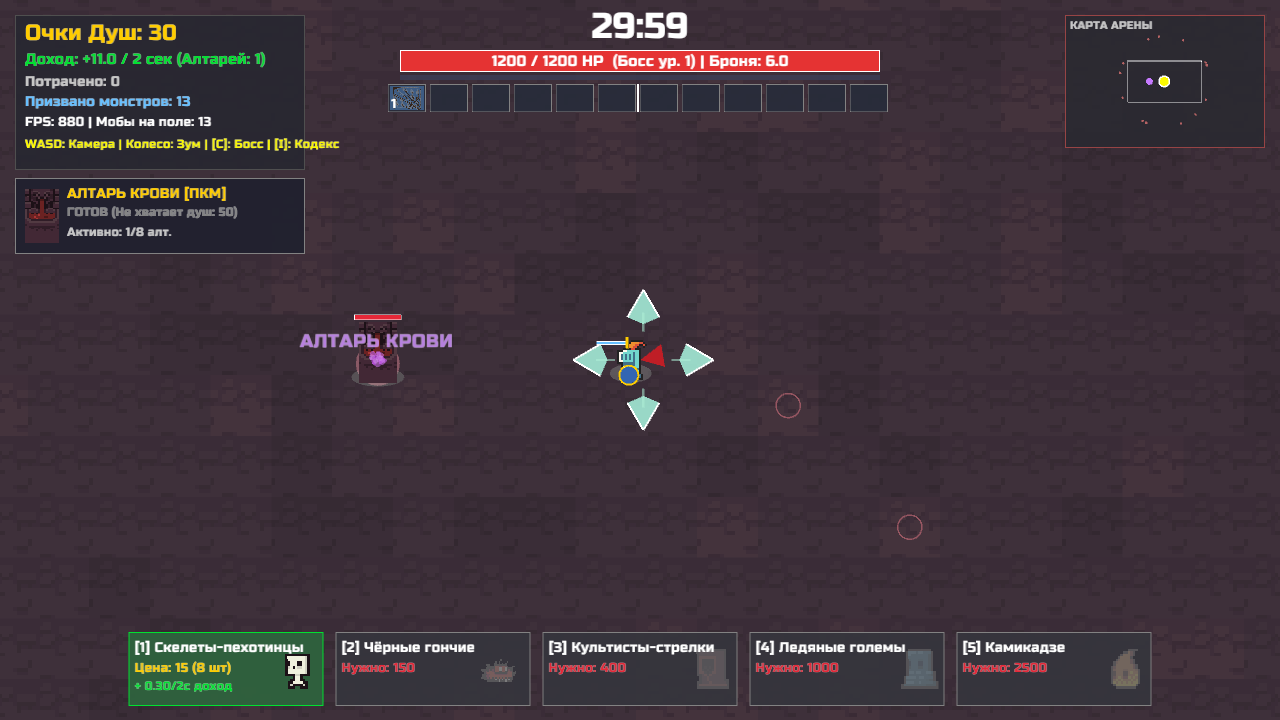
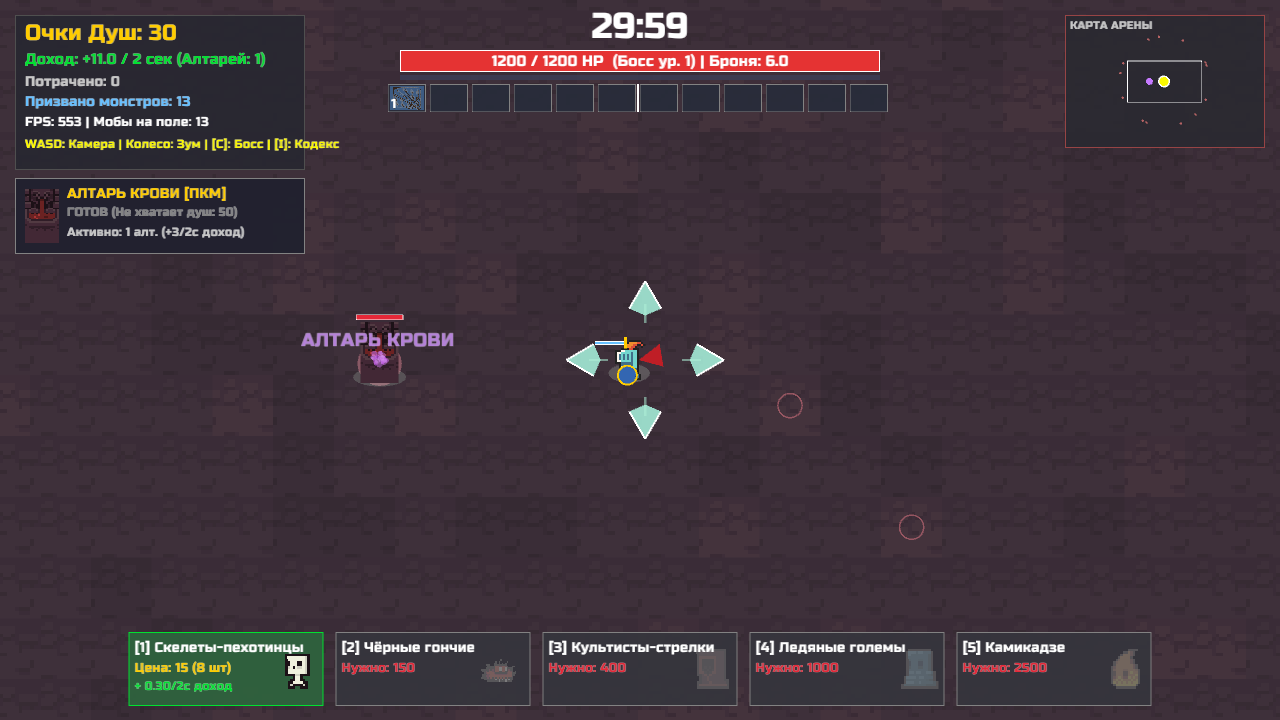
balance(altar): increase altar cooldown to 60s, remove hard limit, retrain co-evolution AI

diff --git a/src/ai/trainer.rs b/src/ai/trainer.rs
@@ -10,34 +10,53 @@ pub fn run_co_evolutionary_training(generations: usize, population_size: usize) 
     println!("Директор обучается душить Босса, а Босс — выживать 30 минут!");
     println!("============================================================");
 
-    // 1. Инициализация стартовых популяций
+    let seed_boss = crate::ai::load_trained_boss_model().unwrap_or_default();
+    let seed_director = crate::ai::load_trained_director_model().unwrap_or_default();
+    let base_gen = seed_boss.generation;
+
+    if base_gen > 0 {
+        println!("🔄 Дообучение (Warm Start): продолжаем с Поколения {} (Фитнес Босса: {:.0})", base_gen, seed_boss.fitness);
+    } else {
+        println!("🌱 Начало нового цикла обучения с базовых параметров.");
+    }
+
+    // 1. Инициализация стартовых популяций (с сохранением лучших прошлых находок)
     let mut boss_pop: Vec<BossModel> = (0..population_size)
-        .map(|_i| {
-            let mut m = BossModel::default();
-            m.generation = 0;
-            // Небольшая начальная вариативность
-            m.mob_repulsion_weight += rand::gen_range(-40.0, 40.0);
-            m.gem_attraction_weight += rand::gen_range(-30.0, 30.0);
-            m.sniper_hunt_aggression += rand::gen_range(-40.0, 40.0);
-            m.altar_siege_aggression += rand::gen_range(-30.0, 30.0);
+        .map(|i| {
+            let mut m = seed_boss.clone();
+            if i > 0 {
+                // Небольшая начальная вариативность для поиска новых оптимумов
+                m.mob_repulsion_weight = (m.mob_repulsion_weight + rand::gen_range(-30.0, 30.0)).clamp(250.0, 700.0);
+                m.gem_attraction_weight = (m.gem_attraction_weight + rand::gen_range(-25.0, 25.0)).clamp(100.0, 400.0);
+                m.sniper_hunt_aggression = (m.sniper_hunt_aggression + rand::gen_range(-30.0, 30.0)).clamp(150.0, 500.0);
+                m.altar_siege_aggression = (m.altar_siege_aggression + rand::gen_range(-25.0, 25.0)).clamp(150.0, 450.0);
+            }
             m
         })
         .collect();
 
     let mut director_pop: Vec<DirectorModel> = (0..population_size)
-        .map(|_i| {
-            let mut d = DirectorModel::default();
-            d.generation = 0;
-            d.altar_build_priority = (d.altar_build_priority + rand::gen_range(-0.15, 0.15)).clamp(0.1, 1.0);
+        .map(|i| {
+            let mut d = seed_director.clone();
+            if i > 0 {
+                d.altar_build_priority = (d.altar_build_priority + rand::gen_range(-0.10, 0.10)).clamp(0.1, 1.0);
+                for w in d.squad_spawn_weights.iter_mut() {
+                    *w = (*w + rand::gen_range(-0.15, 0.15)).max(0.1);
+                }
+            }
             d
         })
         .collect();
 
     let mut best_overall_boss = boss_pop[0].clone();
+    best_overall_boss.fitness = 0.0;
     let mut best_overall_director = director_pop[0].clone();
+    best_overall_director.fitness = 0.0;
 
     // 2. Цикл поколений обучения
     for gen_idx in 1..=generations {
+        let current_gen_num = base_gen + gen_idx as u32;
+
         // Оценка фитнеса каждого кандидата в параллельных схватках
         let boss_results: Vec<(usize, f32, f32, u32)> = (0..population_size)
             .into_par_iter()
@@ -105,13 +124,13 @@ pub fn run_co_evolutionary_training(generations: usize, population_size: usize) 
         for (idx, score, avg_surv, _) in &boss_results {
             boss_pop[*idx].fitness = *score;
             boss_pop[*idx].avg_survival_time = *avg_surv;
-            boss_pop[*idx].generation = gen_idx as u32;
+            boss_pop[*idx].generation = current_gen_num;
         }
 
         for (idx, score, avg_kill) in &director_results {
             director_pop[*idx].fitness = *score;
             director_pop[*idx].avg_boss_kill_time = *avg_kill;
-            director_pop[*idx].generation = gen_idx as u32;
+            director_pop[*idx].generation = current_gen_num;
         }
 
         // Сортировка по фитнесу (лучшие сверху)
@@ -129,8 +148,8 @@ pub fn run_co_evolutionary_training(generations: usize, population_size: usize) 
         }
 
         println!(
-            "🏆 Поколение {:02}/{:02} | Босс: выжил {:.1}с (Фитнес {:.0}) | Директор: сбрил за {:.1}с (Фитнес {:.0})",
-            gen_idx, generations,
+            "🏆 Раунд {:02}/{:02} (Поколение #{:02}) | Босс: выжил {:.1}с (Фитнес {:.0}) | Директор: сбрил за {:.1}с (Фитнес {:.0})",
+            gen_idx, generations, current_gen_num,
             current_best_boss.avg_survival_time, current_best_boss.fitness,
             current_best_dir.avg_boss_kill_time, current_best_dir.fitness
         );

diff --git a/src/render/ui.rs b/src/render/ui.rs
@@ -196,13 +196,10 @@ pub fn render_ui(
         let aw_h = 76.0;
 
         let on_cooldown = director.altar_cooldown > 0.0;
-        let is_at_limit = world.structures.len() >= director.max_active_altars;
         let can_afford_altar = director.points >= BLOOD_ALTAR_COST;
 
         let aw_border = if on_cooldown {
             Color::new(0.9, 0.25, 0.25, 0.95)
-        } else if is_at_limit {
-            YELLOW
         } else if can_afford_altar {
             PURPLE
         } else {
@@ -248,21 +245,17 @@ pub fn render_ui(
             draw_rectangle(content_x, aw_y + 46.0, bar_w * prog, bar_h, ORANGE);
             draw_rectangle_lines(content_x, aw_y + 46.0, bar_w, bar_h, 1.0, GRAY);
 
-            let count_text = format!("Активно: {}/{} алт. (+{:.0}/2с)", world.structures.len(), director.max_active_altars, world.structures.len() as f32 * 3.0);
+            let count_text = format!("Активно: {} алт. (+{:.0}/2с доход)", world.structures.len(), world.structures.len() as f32 * 3.0);
             fonts.draw_text(&count_text, content_x, aw_y + 67.0, 11.0, LIGHTGRAY);
-        } else if is_at_limit {
-            fonts.draw_text("ЛИМИТ АЛТАРЕЙ ДОСТИГНУТ!", content_x, aw_y + 38.0, 13.0, YELLOW);
-            let count_text = format!("Максимум {}/{} на арене (+{:.0}/2с)", world.structures.len(), director.max_active_altars, world.structures.len() as f32 * 3.0);
-            fonts.draw_text(&count_text, content_x, aw_y + 58.0, 12.0, LIGHTGRAY);
         } else if can_afford_altar {
             fonts.draw_text("ГОТОВ К ПОСТРОЙКЕ [50 душ]", content_x, aw_y + 38.0, 13.0, GREEN);
             let bar_w = 220.0;
             draw_rectangle(content_x, aw_y + 46.0, bar_w, 7.0, GREEN);
-            let count_text = format!("Активно: {}/{} алт. (+{:.0}/2с доход)", world.structures.len(), director.max_active_altars, world.structures.len() as f32 * 3.0);
+            let count_text = format!("Активно: {} алт. (+{:.0}/2с доход)", world.structures.len(), world.structures.len() as f32 * 3.0);
             fonts.draw_text(&count_text, content_x, aw_y + 67.0, 11.0, SKYBLUE);
         } else {
             fonts.draw_text("ГОТОВ (Не хватает душ: 50)", content_x, aw_y + 38.0, 12.0, GRAY);
-            let count_text = format!("Активно: {}/{} алт.", world.structures.len(), director.max_active_altars);
+            let count_text = format!("Активно: {} алт. (+{:.0}/2с доход)", world.structures.len(), world.structures.len() as f32 * 3.0);
             fonts.draw_text(&count_text, content_x, aw_y + 58.0, 12.0, LIGHTGRAY);
         }
 
@@ -478,17 +471,14 @@ fn draw_altar_widget_tooltip(aw_x: f32, aw_y: f32, screen_w: f32, fonts: &GameFo
     let card_x = (aw_x + 300.0).clamp(10.0, screen_w - card_w - 10.0);
     let card_y = aw_y;
 
-    let director = world.directors.first();
-    let max_altars = director.map_or(8, |d| d.max_active_altars);
-
     draw_rectangle(card_x, card_y, card_w, card_h, Color::new(0.06, 0.06, 0.12, 0.96));
     draw_rectangle_lines(card_x, card_y, card_w, card_h, 2.0, PURPLE);
 
     fonts.draw_heading("🏛 АЛТАРЬ КРОВИ (Инфернальная база)", card_x + 12.0, card_y + 22.0, 15.0, GOLD);
     fonts.draw_text("• Постройка: Клик ПКМ на свободной точке арены", card_x + 12.0, card_y + 44.0, 12.0, WHITE);
-    let cost_str = format!("• Стоимость: {:.0} Душ | Кулдаун: 14.0 сек (Лимит: {} шт)", BLOOD_ALTAR_COST, max_altars);
+    let cost_str = format!("• Стоимость: {:.0} Душ | Кулдаун: 60 сек (Без лимита шт)", BLOOD_ALTAR_COST);
     fonts.draw_text(&cost_str, card_x + 12.0, card_y + 64.0, 12.0, YELLOW);
-    let inc_str = format!("• Доход: +3.0 Очков Душ каждые 2 сек за каждый живой алтарь (Текущий: +{:.0}/2с)", world.structures.len() as f32 * 3.0);
+    let inc_str = format!("• Доход: +3.0 Очков Душ каждые 2 сек за каждый алтарь (Текущий: +{:.0}/2с)", world.structures.len() as f32 * 3.0);
     fonts.draw_text(&inc_str, card_x + 12.0, card_y + 84.0, 12.0, GREEN);
     fonts.draw_text("• Аура Крови: Восстанавливает +35 HP союзникам в радиусе 180px", card_x + 12.0, card_y + 104.0, 12.0, SKYBLUE);
     fonts.draw_text("• Здоровье: 650 HP (Броня: 12, уязвим к святому урону -60%)", card_x + 12.0, card_y + 124.0, 12.0, LIGHTGRAY);

diff --git a/src/main.rs b/src/main.rs
@@ -43,8 +43,12 @@ fn window_conf() -> Conf {
 #[macroquad::main(window_conf)]
 async fn main() {
     // Режим автономного со-эволюционного обучения ботов (Self-Play Training)
-    if std::env::args().any(|a| a == "--train") {
-        crate::ai::trainer::run_co_evolutionary_training(8, 8);
+    // Поддерживает аргументы: cargo run --release -- --train [поколений] [размер популяции]
+    let args: Vec<String> = std::env::args().collect();
+    if let Some(pos) = args.iter().position(|a| a == "--train") {
+        let generations = args.get(pos + 1).and_then(|s| s.parse().ok()).unwrap_or(8);
+        let population = args.get(pos + 2).and_then(|s| s.parse().ok()).unwrap_or(8);
+        crate::ai::trainer::run_co_evolutionary_training(generations, population);
         return;
     }
 
@@ -255,7 +259,6 @@ fn handle_player_input(world: &World, driver: &mut impl NetworkDriver, world_cam
         if is_mouse_button_pressed(MouseButton::Right) {
             if director.points >= BLOOD_ALTAR_COST
                 && director.altar_cooldown <= 0.0
-                && world.structures.len() < director.max_active_altars
             {
                 let (mx, my) = mouse_position();
                 let world_click = world_cam.screen_to_world(Vec2::new(mx, my));
@@ -295,7 +298,6 @@ fn execute_command(world: &mut World, cmd: Command) {
         Command::PlaceStructure { director_id, pos, .. } => {
             if let Some(director) = world.directors.iter_mut().find(|d| d.id == director_id) {
                 if director.altar_cooldown <= 0.0
-                    && world.structures.len() < director.max_active_altars
                     && director.spend_points(BLOOD_ALTAR_COST)
                 {
                     director.altar_cooldown = director.altar_max_cooldown;

diff --git a/src/ai/mod.rs b/src/ai/mod.rs
@@ -3,7 +3,7 @@ pub mod simulation;
 pub mod trainer;
 
 use std::path::Path;
-use crate::ai::models::BossModel;
+use crate::ai::models::{BossModel, DirectorModel};
 
 /// Загружает обученную модель интеллекта босса из models/boss_policy.json, если она существует
 pub fn load_trained_boss_model() -> Option<BossModel> {
@@ -11,6 +11,19 @@ pub fn load_trained_boss_model() -> Option<BossModel> {
     if path.exists() {
         if let Ok(content) = std::fs::read_to_string(path) {
             if let Ok(model) = serde_json::from_str::<BossModel>(&content) {
+                return Some(model);
+            }
+        }
+    }
+    None
+}
+
+/// Загружает обученную модель тактики директора из models/director_policy.json, если она существует
+pub fn load_trained_director_model() -> Option<DirectorModel> {
+    let path = Path::new("models/director_policy.json");
+    if path.exists() {
+        if let Ok(content) = std::fs::read_to_string(path) {
+            if let Ok(model) = serde_json::from_str::<DirectorModel>(&content) {
                 return Some(model);
             }
         }

diff --git a/src/ai/simulation.rs b/src/ai/simulation.rs
@@ -50,13 +50,12 @@ pub fn run_headless_simulation(
             let mut tier_to_spawn = None;
 
             if let Some(director) = world.directors.first() {
-                let max_altars = director.max_active_altars;
                 let cooldown = director.altar_cooldown;
                 let points = director.points;
                 let spent = director.total_points_spent;
 
-                // 1.1 Постройка Алтаря Крови
-                if cooldown <= 0.0 && points >= BLOOD_ALTAR_COST && world.structures.len() < max_altars {
+                // 1.1 Постройка Алтаря Крови (Кулдаун 60 сек, без искусственного лимита)
+                if cooldown <= 0.0 && points >= BLOOD_ALTAR_COST {
                     let build_roll = rand::gen_range(0.0, 1.0);
                     if build_roll < director_model.altar_build_priority {
                         should_spawn_altar = true;

diff --git a/src/ecs/world.rs b/src/ecs/world.rs
@@ -95,7 +95,6 @@ pub struct DirectorState {
     pub squad_cooldowns: [f32; 5],
     pub altar_cooldown: f32,
     pub altar_max_cooldown: f32,
-    pub max_active_altars: usize,
     pub total_mobs_spawned: usize,
 }
 
@@ -109,8 +108,7 @@ impl DirectorState {
             income_timer: 0.0,
             squad_cooldowns: [0.0; 5],
             altar_cooldown: 0.0,
-            altar_max_cooldown: 14.0, // 14 секунд персональный кулдаун на постройку Алтаря
-            max_active_altars: 8,     // Лимит одновременных алтарей для предотвращения бесконечного спама
+            altar_max_cooldown: 60.0, // 60 секунд (1 минута) кулдаун на постройку Алтаря (без искусственного лимита)
             total_mobs_spawned: 0,
         }
     }
